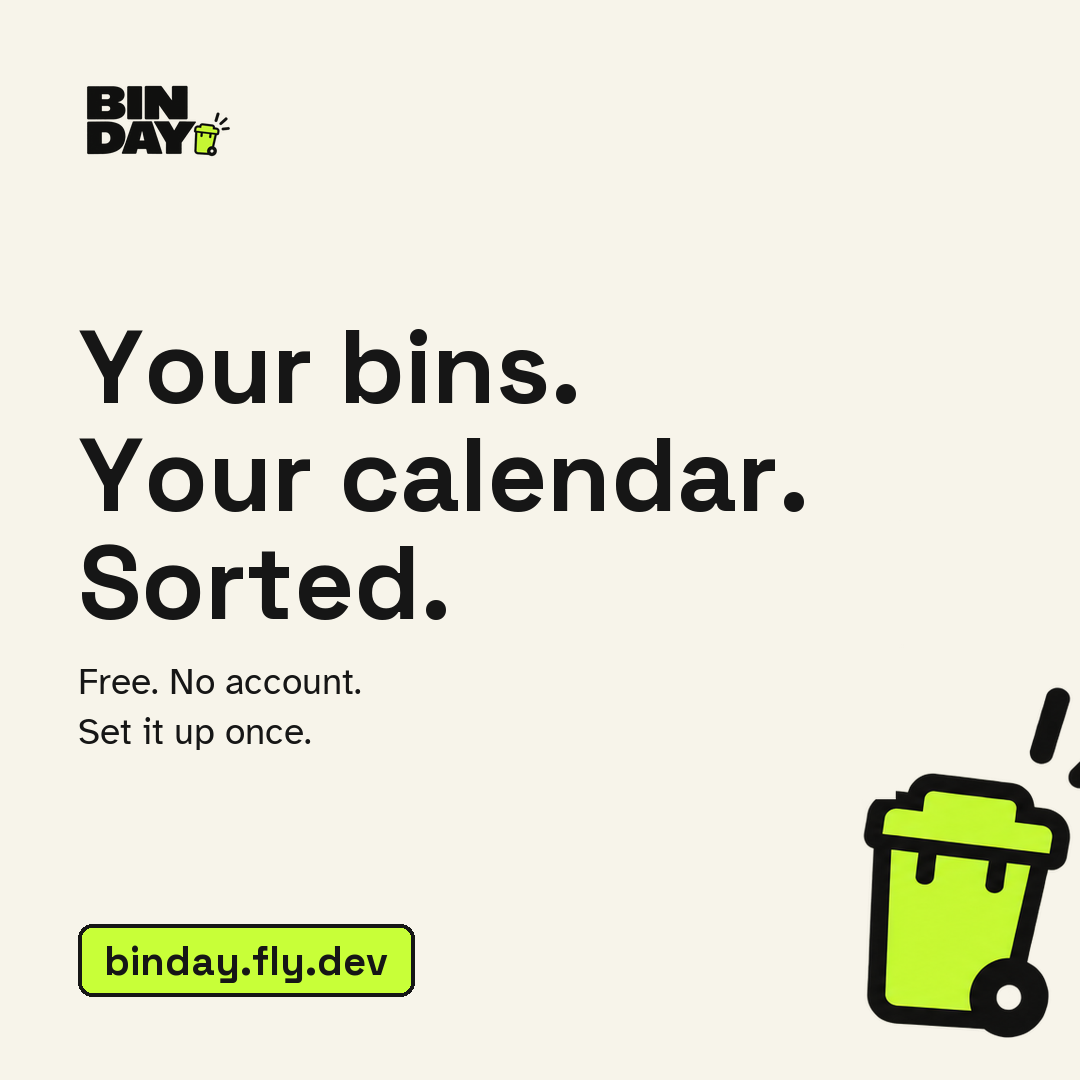
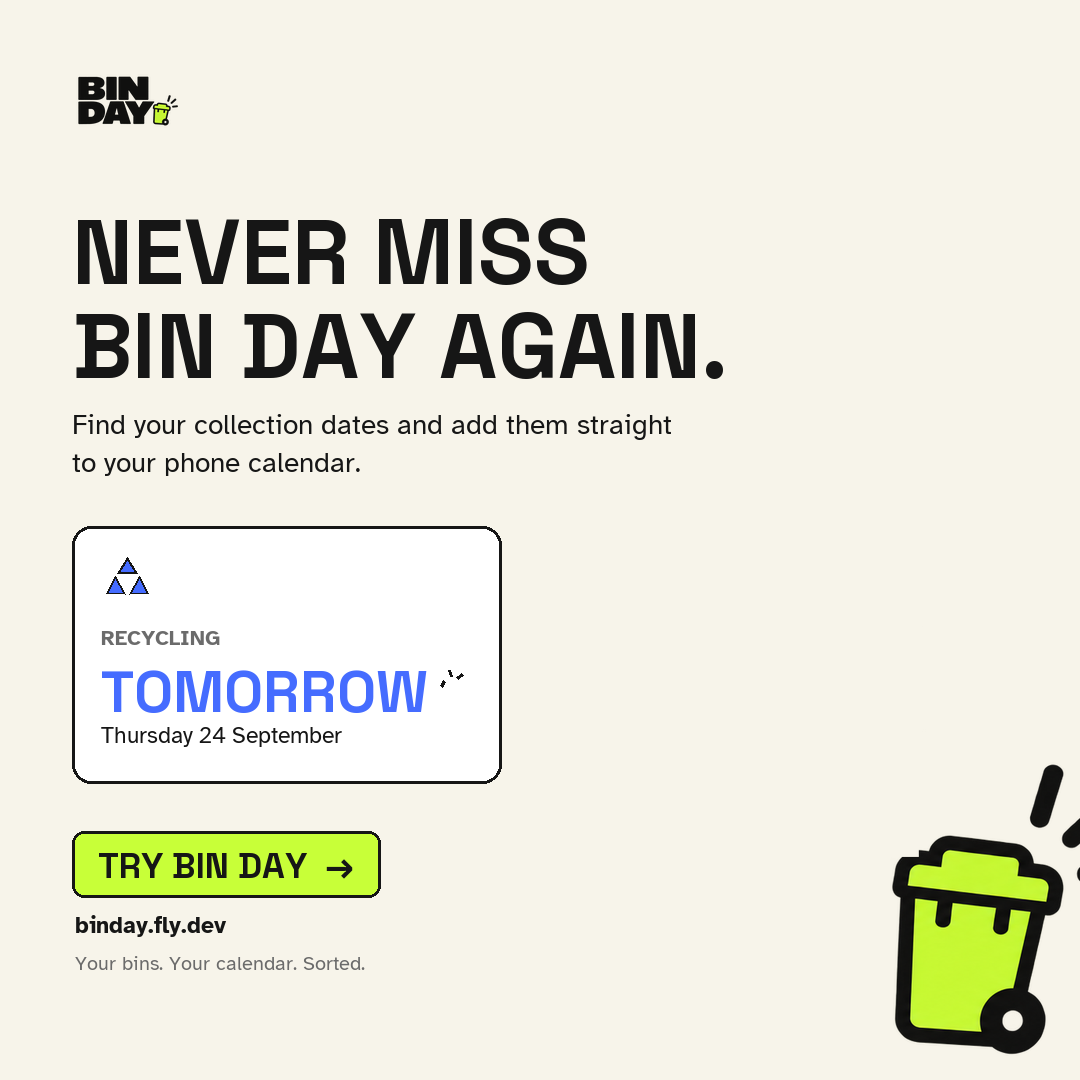
Rebuild the social assets to the brand spec
One dominant message per graphic: a problem-led headline, one explanatory
line, one real collection result, a CTA and the bin cropping the corner.

Four defects found by looking at the renders rather than trusting the maths:
the result card sized itself to a fixed width and TOMORROW overflowed it; the
CTA could touch the card; the recycling triangles merged into a single blob
because they were not pushed clear of the centre; and the bin cropped so hard
its wheel disappeared. The story had a dead zone under the sign-off and the
portrait had one below it, so both re-compose rather than resize.

docs/SOCIAL_ASSETS.md records the spec these follow.

diff --git a/social/build_social.py b/social/build_social.py
@@ -1,12 +1,14 @@
 #!/usr/bin/env python3
 """Build the Bin Day social assets from the brand kit.
 
-Two sizes:
-  bin-day-square.png   1080x1080  - for posting into a feed
-  bin-day-og.png       1200x630   - the link preview, served as og:image
+  bin-day-square.png    1080x1080  main feed
+  bin-day-portrait.png  1080x1350  portrait feed
+  bin-day-story.png     1080x1920  stories / reels
+  bin-day-og.png        1200x630   link preview (served as og:image)
 
-Fonts are the brand's own (Space Grotesk, Atkinson Hyperlegible). Point FONTS
-at a directory holding them, or let it download from Google Fonts.
+One dominant message per graphic: a problem-led headline, one explanatory
+line, one real collection result, a CTA, and the bin cropping off the corner.
+Fonts are the brand's own; they download on first run.
 """
 from __future__ import annotations
 
@@ -31,100 +33,194 @@ CREAM = (247, 244, 234)
 INK   = (22, 22, 22)
 LIME  = (200, 255, 56)
 GREY  = (107, 107, 107)
+WHITE = (255, 255, 255)
+BLUE  = (69, 108, 255)      # recycling
 
 
 def ensure_fonts() -> None:
     FONTS.mkdir(parents=True, exist_ok=True)
     for name, url in SOURCES.items():
-        target = FONTS / name
-        if not target.exists():
-            urllib.request.urlretrieve(url, target)
+        if not (FONTS / name).exists():
+            urllib.request.urlretrieve(url, FONTS / name)
 
 
 def display(size: int) -> ImageFont.FreeTypeFont:
-    """Space Grotesk is a variable font; pick Bold explicitly."""
+    """Space Grotesk is a variable font, and Bold (700) is its heaviest cut -
+    there is no 800 to select."""
     font = ImageFont.truetype(str(FONTS / "SpaceGrotesk.ttf"), size)
     font.set_variation_by_name("Bold")
     return font
 
 
 def ui(size: int, bold: bool = False) -> ImageFont.FreeTypeFont:
-    name = "Atkinson-Bold.ttf" if bold else "Atkinson-Regular.ttf"
-    return ImageFont.truetype(str(FONTS / name), size)
+    return ImageFont.truetype(
+        str(FONTS / ("Atkinson-Bold.ttf" if bold else "Atkinson-Regular.ttf")), size)
 
 
-def paste_scaled(canvas: Image.Image, path: pathlib.Path, height: int,
-                 pos: tuple[int, int]) -> Image.Image:
-    art = Image.open(path).convert("RGBA")
-    art = art.resize((round(art.width * height / art.height), height), Image.LANCZOS)
-    canvas.alpha_composite(art, pos)
-    return art
+def wrap(draw: ImageDraw.ImageDraw, text: str, font: ImageFont.FreeTypeFont,
+         width: int) -> list[str]:
+    lines, line = [], ""
+    for word in text.split():
+        trial = f"{line} {word}".strip()
+        if draw.textlength(trial, font=font) <= width:
+            line = trial
+        else:
+            lines.append(line)
+            line = word
+    if line:
+        lines.append(line)
+    return lines
 
 
-def pill(draw: ImageDraw.ImageDraw, xy: tuple[int, int], text: str,
-         font: ImageFont.FreeTypeFont, pad: tuple[int, int] = (26, 16)) -> int:
-    """Ink-outlined lime block, like the site's strapline. Returns its width."""
-    x, y = xy
-    w = draw.textlength(text, font=font)
-    box = (x, y, x + w + pad[0] * 2, y + font.size + pad[1] * 2)
-    draw.rounded_rectangle(box, radius=14, fill=LIME, outline=INK, width=4)
-    draw.text((x + pad[0], y + pad[1] - font.size * .12), text, font=font, fill=INK)
-    return int(box[2] - box[0])
+def rays(d: ImageDraw.ImageDraw, x: int, y: int, scale: float,
+         colour=INK) -> None:
+    """The three marks from the logo, as a small recurring device."""
+    w = max(3, round(2.6 * scale))
+    for x1, y1, x2, y2 in ((4, 13, 1.5, 17), (9.5, 8.5, 8, 3.5), (14.5, 10, 18.5, 7)):
+        d.line((x + x1 * scale, y + y1 * scale, x + x2 * scale, y + y2 * scale),
+               fill=colour, width=w)
 
 
-def square() -> Image.Image:
-    W = H = 1080
+def recycling_mark(d: ImageDraw.ImageDraw, x: int, y: int, size: int) -> None:
+    """Three arrowheads in a ring - the same icon the site uses. Each triangle
+    is built pointing up, pushed out from the centre, then rotated, so they
+    sit in a ring instead of piling up on the middle."""
+    import math
+    cx, cy = x + size / 2, y + size / 2
+    # The triangles must clear the centre or they merge into one blob: the
+    # nearest edge sits at (offset - half_h) from the middle.
+    half_w, half_h = size * 0.19, size * 0.15
+    offset = size * 0.30
+    for turn in (0, 120, 240):
+        a = math.radians(turn)
+        pts = []
+        for px, py in ((0, -half_h), (half_w, half_h), (-half_w, half_h)):
+            py -= offset
+            pts.append((cx + px * math.cos(a) - py * math.sin(a),
+                        cy + px * math.sin(a) + py * math.cos(a)))
+        d.polygon(pts, fill=BLUE, outline=INK, width=max(2, size // 18))
+
+
+def result_card(img: Image.Image, d: ImageDraw.ImageDraw, x: int, y: int,
+                s: float) -> tuple[int, int]:
+    """One real collection result. Relative timing is the largest thing on it.
+    The card sizes itself to its content - TOMORROW is eight characters and
+    overflowed a fixed width."""
+    pad = round(34 * s)
+    icon = round(62 * s)
+    f_label = ui(round(24 * s), bold=True)
+    f_when  = display(round(68 * s))
+    f_date  = ui(round(27 * s))
+
+    when_w = d.textlength("TOMORROW", font=f_when)
+    ray_w = round(34 * s)
+    w = round(max(when_w + ray_w + round(18 * s),
+                  d.textlength("Thursday 24 September", font=f_date)) + pad * 2)
+    h = pad * 2 + icon + round(20 * s) + round(34 * s) + round(78 * s) + round(38 * s)
+
+    d.rounded_rectangle((x, y, x + w, y + h), radius=round(22 * s),
+                        fill=WHITE, outline=INK, width=max(2, round(3 * s)))
+    recycling_mark(d, x + pad, y + pad, icon)
+    ty = y + pad + icon + round(20 * s)
+    d.text((x + pad, ty), "RECYCLING", font=f_label, fill=GREY)
+    ty += round(34 * s)
+    d.text((x + pad, ty), "TOMORROW", font=f_when, fill=BLUE)
+    rays(d, round(x + pad + when_w + 14 * s), round(ty + 14 * s), s * 1.4)
+    ty += round(78 * s)
+    d.text((x + pad, ty), "Thursday 24 September", font=f_date, fill=INK)
+    return w, h
+
+
+def pill(d: ImageDraw.ImageDraw, x: int, y: int, text: str,
+         font: ImageFont.FreeTypeFont, s: float) -> tuple[int, int]:
+    px, py = round(30 * s), round(18 * s)
+    w = d.textlength(text, font=font)
+    box = (x, y, x + w + px * 2, y + font.size + py * 2)
+    d.rounded_rectangle(box, radius=round(14 * s), fill=LIME, outline=INK,
+                        width=max(2, round(3.5 * s)))
+    d.text((x + px, y + py - font.size * .12), text, font=font, fill=INK)
+    return int(box[2] - box[0]), int(box[3] - box[1])
+
+
+def compose(W: int, H: int, s: float, head_size: int, bin_h: int,
+            top_pad: int = 0) -> Image.Image:
     img = Image.new("RGBA", (W, H), CREAM + (255,))
     d = ImageDraw.Draw(img)
-    m = 78
+    m = round(84 * s)                       # keeps text clear of platform crops
 
-    paste_scaled(img, ROOT / "static/assets/logo/bin-day-logo-web.png", 92, (m, m - 6))
+    # Bin first so everything sits over it. It runs off the right edge but the
+    # wheel stays on the canvas - cropped, not beheaded.
+    art = Image.open(ROOT / "static/assets/logo/bin-day-mark-clean.png").convert("RGBA")
+    art = art.resize((round(art.width * bin_h / art.height), bin_h), Image.LANCZOS)
+    img.alpha_composite(art, (W - art.width + round(art.width * .22),
+                              H - bin_h - round(28 * s)))
 
-    # The bin sits bottom-right and crops off the edge, as it does on the site.
-    bin_art = Image.open(ROOT / "static/assets/logo/bin-day-mark-clean.png").convert("RGBA")
-    bh = 520
-    bin_art = bin_art.resize((round(bin_art.width * bh / bin_art.height), bh), Image.LANCZOS)
-    img.alpha_composite(bin_art, (W - bin_art.width + 74, H - bh - 40))
+    logo = Image.open(ROOT / "static/assets/logo/bin-day-logo-web.png").convert("RGBA")
+    lh = round(74 * s)
+    logo = logo.resize((round(logo.width * lh / logo.height), lh), Image.LANCZOS)
+    img.alpha_composite(logo, (m, m - round(6 * s)))
 
-    head = display(104)
-    y = 300
-    for line in ("Your bins.", "Your calendar.", "Sorted."):
+    y = m + lh + round(66 * s) + top_pad
+    head = display(head_size)
+    for line in ("NEVER MISS", "BIN DAY AGAIN."):
         d.text((m, y), line, font=head, fill=INK)
-        y += 108
+        y += round(head_size * 1.02)
 
-    body = ui(37)
-    d.text((m, y + 34), "Free. No account.", font=body, fill=INK)
-    d.text((m, y + 84), "Set it up once.", font=body, fill=INK)
+    y += round(30 * s)
+    body = ui(round(32 * s))
+    for line in wrap(d, "Find your collection dates and add them straight to "
+                        "your phone calendar.", body, round(W * .58)):
+        d.text((m, y), line, font=body, fill=INK)
+        y += round(44 * s)
 
-    pill(d, (m, H - m - 78), "binday.fly.dev", display(40))
+    y += round(50 * s)
+    _, card_h = result_card(img, d, m, y, s)
+    y += card_h + round(56 * s)              # never let the CTA touch the card
+
+    cta_w, cta_h = pill(d, m, y, "TRY BIN DAY  \u2192", display(round(42 * s)), s)
+    y += cta_h + round(16 * s)
+    d.text((m + round(4 * s), y), "binday.fly.dev",
+           font=ui(round(27 * s), bold=True), fill=INK)
+
+    # Brand sign-off, deliberately quiet - it is not the acquisition headline.
+    d.text((m + round(4 * s), y + round(46 * s)),
+           "Your bins. Your calendar. Sorted.", font=ui(round(23 * s)), fill=GREY)
     return img
 
 
 def og() -> Image.Image:
-    W, H = 1200, 630
+    W, H, s = 1200, 630, .78
     img = Image.new("RGBA", (W, H), CREAM + (255,))
     d = ImageDraw.Draw(img)
     m = 66
 
-    paste_scaled(img, ROOT / "static/assets/logo/bin-day-logo-web.png", 74, (m, m - 4))
+    art = Image.open(ROOT / "static/assets/logo/bin-day-mark-clean.png").convert("RGBA")
+    bh = 430
+    art = art.resize((round(art.width * bh / art.height), bh), Image.LANCZOS)
+    img.alpha_composite(art, (W - art.width - 54, H - bh + 40))
 
-    bin_art = Image.open(ROOT / "static/assets/logo/bin-day-mark-clean.png").convert("RGBA")
-    bh = 400
-    bin_art = bin_art.resize((round(bin_art.width * bh / bin_art.height), bh), Image.LANCZOS)
-    img.alpha_composite(bin_art, (W - bin_art.width - 70, H - bh - 46))
+    logo = Image.open(ROOT / "static/assets/logo/bin-day-logo-web.png").convert("RGBA")
+    logo = logo.resize((round(logo.width * 62 / logo.height), 62), Image.LANCZOS)
+    img.alpha_composite(logo, (m, m - 4))
 
-    head = display(82)
-    d.text((m, 210), "What bin is it", font=head, fill=INK)
-    d.text((m, 296), "this week?", font=head, fill=INK)
-    d.text((m, 412), "Put your bin collections in your calendar.",
-           font=ui(30), fill=GREY)
-    pill(d, (m, H - m - 66), "binday.fly.dev", display(32))
+    head = display(76)
+    d.text((m, 196), "NEVER MISS", font=head, fill=INK)
+    d.text((m, 274), "BIN DAY AGAIN.", font=head, fill=INK)
+    d.text((m, 386), "Find your collection dates and add them", font=ui(28), fill=INK)
+    d.text((m, 424), "straight to your phone calendar.", font=ui(28), fill=INK)
+    pill(d, m, H - m - 76, "TRY BIN DAY  →", display(32), s)
     return img
 
 
 if __name__ == "__main__":
     ensure_fonts()
-    HERE.mkdir(exist_ok=True)
-    square().convert("RGB").save(HERE / "bin-day-square.png", optimize=True)
+    out = {
+        "bin-day-square.png":   compose(1080, 1080, 0.86, 92,  430),
+        "bin-day-portrait.png": compose(1080, 1350, 1.00, 104, 600, top_pad=96),
+        "bin-day-story.png":    compose(1080, 1920, 1.12, 118, 900, top_pad=210),
+    }
+    for name, image in out.items():
+        image.convert("RGB").save(HERE / name, optimize=True)
+    (ROOT / "static/assets/social").mkdir(parents=True, exist_ok=True)
     og().convert("RGB").save(ROOT / "static/assets/social/bin-day-og.png", optimize=True)
-    print("wrote social/bin-day-square.png and static/assets/social/bin-day-og.png")
+    print("wrote", ", ".join(out), "and the og card")

diff --git a/docs/SOCIAL_ASSETS.md b/docs/SOCIAL_ASSETS.md
@@ -1,0 +1,70 @@
+# Social assets
+
+Generated by [`social/build_social.py`](../social/build_social.py). Run it from
+the repo root; the brand fonts download to `social/fonts/` on first run.
+
+```bash
+./.venv/bin/python social/build_social.py
+```
+
+## Purpose
+
+These graphics exist to be dropped into a community group or a feed by someone
+who is not a designer, and to be understood in about a second while scrolling.
+So: one message per graphic, no explaining, no feature list.
+
+## Hierarchy
+
+Strict, top to bottom, and never reordered:
+
+1. **Logo**, top left, small. It is a signature, not the message.
+2. **Headline**, dominant - the largest thing on the canvas by a clear margin.
+3. **One explanatory line**, two lines of body at most.
+4. **One real collection result** on a white card. Relative timing
+   (`TOMORROW`) is the biggest thing on the card, in the recycling blue, with
+   the brand rays beside it. The bin name sits above in grey, the real date
+   below in ink.
+5. **CTA**: a lime pill, with the bare domain smaller underneath.
+6. **Sign-off**: `Your bins. Your calendar. Sorted.` in grey, deliberately quiet.
+
+The bin crops off the bottom-right corner, oversized, behind everything.
+It never loses its wheel to the crop - a beheaded bin reads as a bug.
+
+## Preferred headlines
+
+- `NEVER MISS / BIN DAY AGAIN.` (default)
+- `WHAT BIN IS IT / THIS WEEK?`
+- `HERE'S WHAT'S / GOING OUT.`
+
+Two lines, all caps, Space Grotesk Bold, full stop on the second line. Bold is
+the heaviest cut of the variable font - there is no 800 to select.
+
+## CTA treatment
+
+Lime pill, ink text, ink outline, arrow after the words. The domain goes
+**underneath in small bold ink**, not inside the pill: inside, it competes with
+the verb and both shrink.
+
+## Formats
+
+| File | Size | Use |
+|---|---|---|
+| `social/bin-day-square.png` | 1080 × 1080 | main feed graphic |
+| `social/bin-day-portrait.png` | 1080 × 1350 | portrait feed option |
+| `social/bin-day-story.png` | 1080 × 1920 | stories / reels |
+| `static/assets/social/bin-day-og.png` | 1200 × 630 | link preview, served as `og:image` |
+
+Each format re-composes at its own scale rather than being resized: the story
+carries extra top padding so the block clears the platform's own UI, and the
+portrait needs a larger bin or the lower third goes dead.
+
+## Do not
+
+- Do not put more than one message on a graphic.
+- Do not add a feature list, screenshots of the site, or a QR code.
+- Do not shrink the headline to make room for anything.
+- Do not use a fake or rounded collection date - the card shows a real result.
+- Do not recolour the bin, add gradients, shadows or glass.
+- Do not add bin puns beyond the ones in `CLAUDE.md`.
+- Do not crop the bin past its wheel.
+- Do not stretch one render to another aspect ratio.
